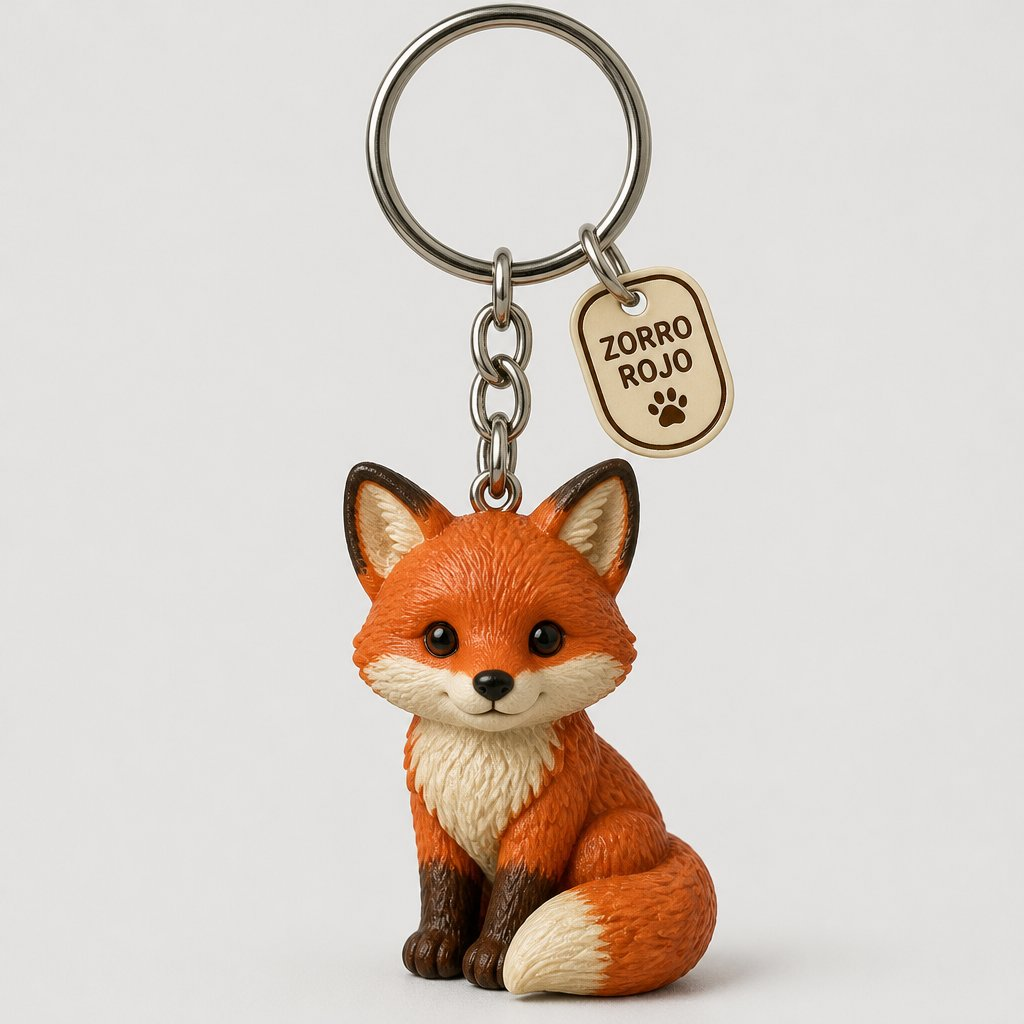
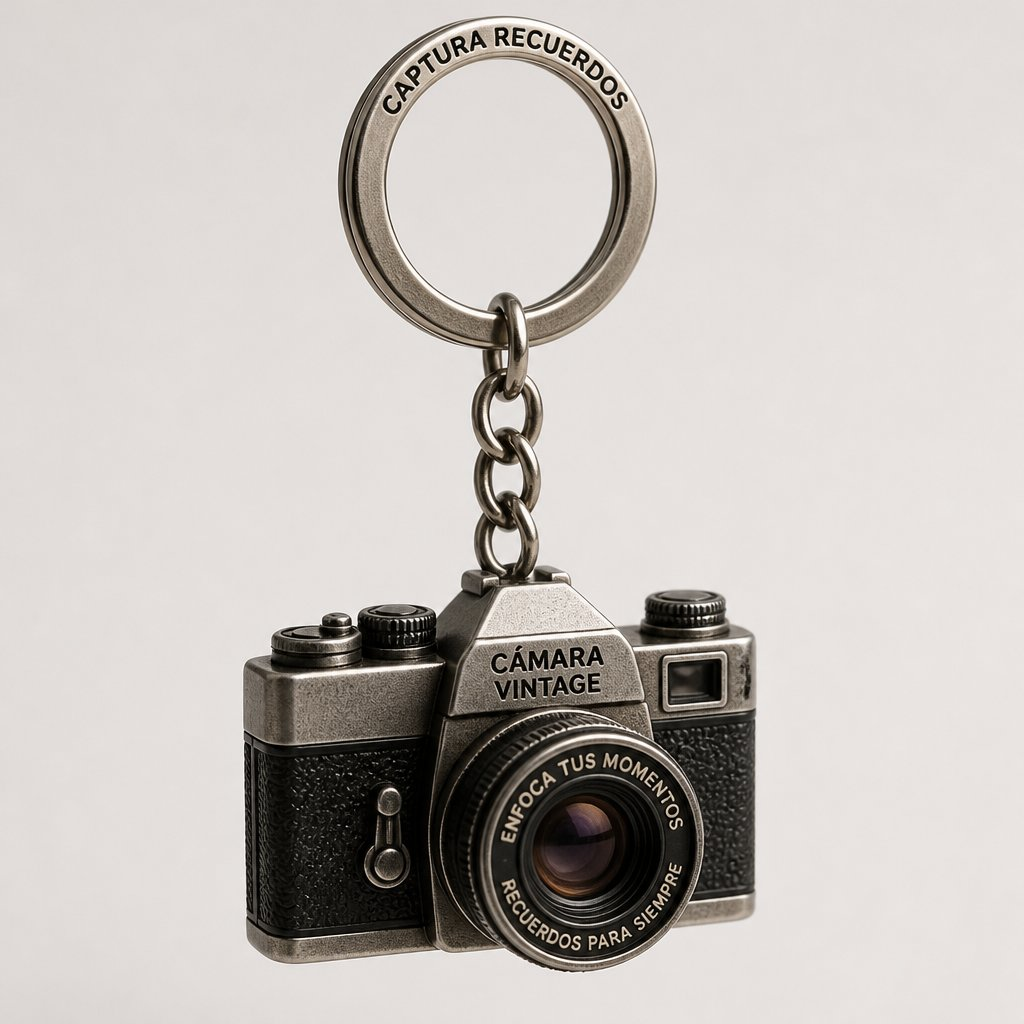
fix(trickvault): los tres ultimos zorros de xl-letras3d
En la revision a tamano legible quedaban tres tarjetas de xl-letras3d con un
zorro (leo mal los codigos en la tira pequena: son /keyloop, /nodhead y
/plushtoy, no /modhead ni /plushie):
  - /keyloop  -> llavero con la camara colgando
  - /nodhead  -> figura con cabeza que se mueve, la camara
  - /plushtoy -> peluche de la camara
Los tres llevan ya ?v=20261015-sujeto-unico, como el resto del lote.

Verificado: banco local 1101 OK / 0 fallos en los dos escenarios.

Changed region(s): [[0.2188, 0.0, 0.75, 1.0]]

diff --git a/apps/trickvault/index.html b/apps/trickvault/index.html
@@ -2333,12 +2333,12 @@ Object.assign(SEED_COMMAND_IMAGES, {
     '/skilltree': 'assets/xl-juegos/skilltree.jpg',
     '/blisterpack': 'assets/xl-letras3d/blisterpack.jpg?v=20261015-sujeto-unico',
     '/headswing': 'assets/xl-letras3d/headswing.jpg?v=20261015-sujeto-unico',
-    '/keyloop': 'assets/xl-letras3d/keyloop.jpg',
+    '/keyloop': 'assets/xl-letras3d/keyloop.jpg?v=20261015-sujeto-unico',
     '/capsuletoy': 'assets/xl-letras3d/capsuletoy.jpg?v=20261015-sujeto-unico',
-    '/nodhead': 'assets/xl-letras3d/nodhead.jpg',
+    '/nodhead': 'assets/xl-letras3d/nodhead.jpg?v=20261015-sujeto-unico',
     '/yarnfigure': 'assets/xl-letras3d/yarnfigure.jpg?v=20261015-sujeto-unico',
     '/boxdiorama': 'assets/xl-letras3d/boxdiorama.jpg?v=20261015-sujeto-unico',
-    '/plushtoy': 'assets/xl-letras3d/plushtoy.jpg',
+    '/plushtoy': 'assets/xl-letras3d/plushtoy.jpg?v=20261015-sujeto-unico',
     '/oldscreen': 'assets/infografias/oldscreen.jpg',
     '/matchpack': 'assets/infografias/matchpack.jpg',
     '/tinlabel': 'assets/infografias/tinlabel.jpg',

diff --git a/tools/trickvault/_rehacer_dos2.py b/tools/trickvault/_rehacer_dos2.py
@@ -1,0 +1,18 @@
+import importlib.util, json, os, sys
+sys.stdout.reconfigure(encoding='utf-8')
+T = r'E:\ANTIGRAVITY\tools\trickvault'
+os.environ['FORZAR'] = '1'; os.environ['WORKERS'] = '2'
+spec = importlib.util.spec_from_file_location('cl', os.path.join(T, '_carpeta_lote.py'))
+cl = importlib.util.module_from_spec(spec); spec.loader.exec_module(cl)
+mapa = {t['code']: t['id'] for t in cl.tarjetas_de('xl-letras3d')}
+f = os.path.join(T, '_sujetos_xl-letras3d.json')
+suj = json.load(open(f, encoding='utf-8'))
+ids = set()
+for code in ('/nodhead', '/plushtoy'):
+    i = mapa[code]; ids.add(i); suj[i] = 'a vintage film camera'
+    png = os.path.join(T, 'xl-letras3d_gen', i + '.png')
+    if os.path.exists(png): os.remove(png)
+    print('  %-12s id=%s' % (code, i))
+json.dump(suj, open(f, 'w', encoding='utf-8'), ensure_ascii=False, indent=1)
+rc = cl.generar('xl-letras3d', forzar_ids=ids)
+if rc == 0: cl.aplicar('xl-letras3d')

diff --git a/tools/trickvault/_rehacer_keyloop.py b/tools/trickvault/_rehacer_keyloop.py
@@ -1,0 +1,18 @@
+import importlib.util, json, os, sys
+sys.stdout.reconfigure(encoding='utf-8')
+T = r'E:\ANTIGRAVITY\tools\trickvault'
+os.environ['FORZAR'] = '1'; os.environ['WORKERS'] = '1'
+spec = importlib.util.spec_from_file_location('cl', os.path.join(T, '_carpeta_lote.py'))
+cl = importlib.util.module_from_spec(spec); spec.loader.exec_module(cl)
+# /keyloop (xl-letras3d): tenia un llavero con un zorro; su carpeta va con la camara
+t = [x for x in cl.tarjetas_de('xl-letras3d') if x['code'] == '/keyloop']
+print('tarjeta:', t)
+i = t[0]['id']
+f = os.path.join(T, '_sujetos_xl-letras3d.json')
+suj = json.load(open(f, encoding='utf-8'))
+suj[i] = 'a vintage film camera'
+json.dump(suj, open(f, 'w', encoding='utf-8'), ensure_ascii=False, indent=1)
+png = os.path.join(T, 'xl-letras3d_gen', i + '.png')
+if os.path.exists(png): os.remove(png)
+rc = cl.generar('xl-letras3d', forzar_ids={i})
+if rc == 0: cl.aplicar('xl-letras3d')
